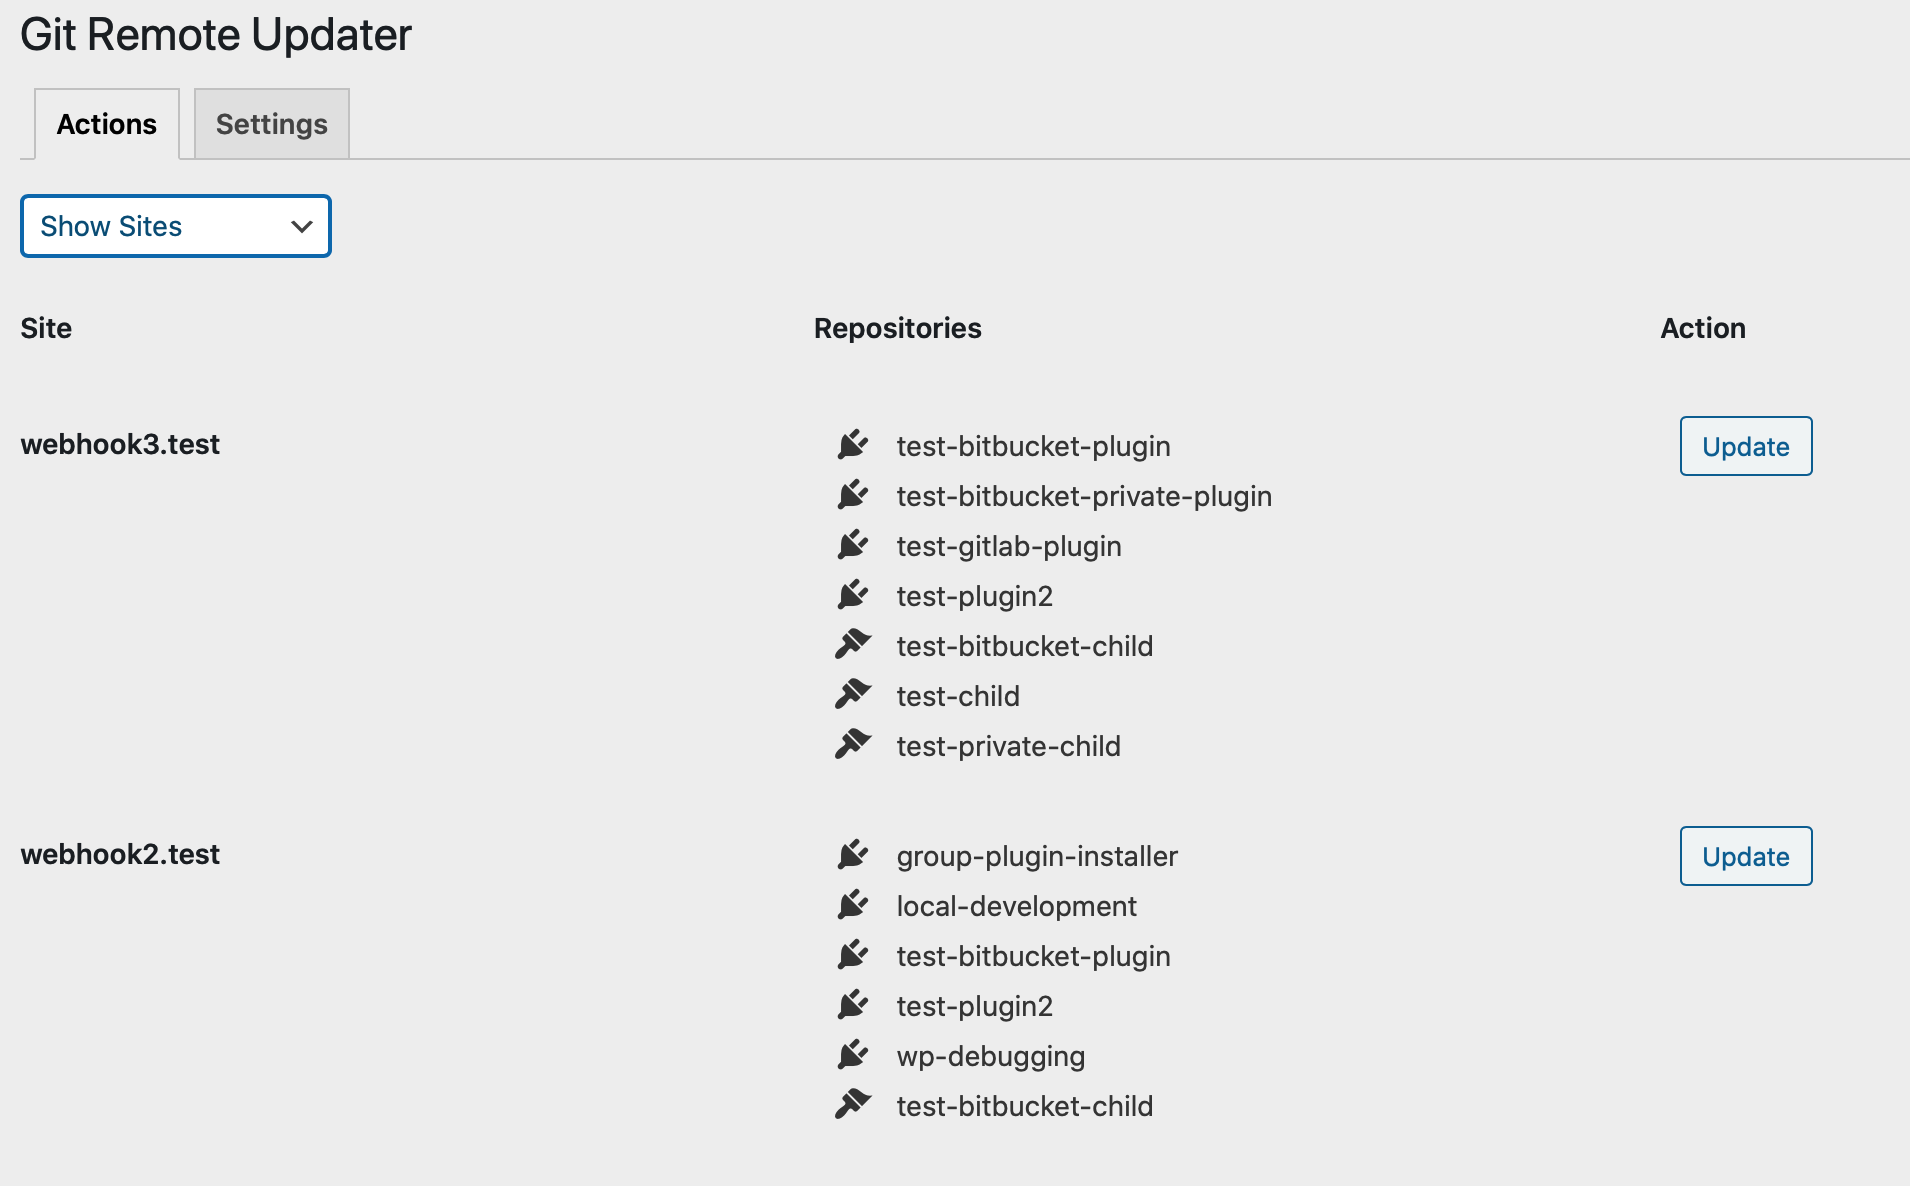
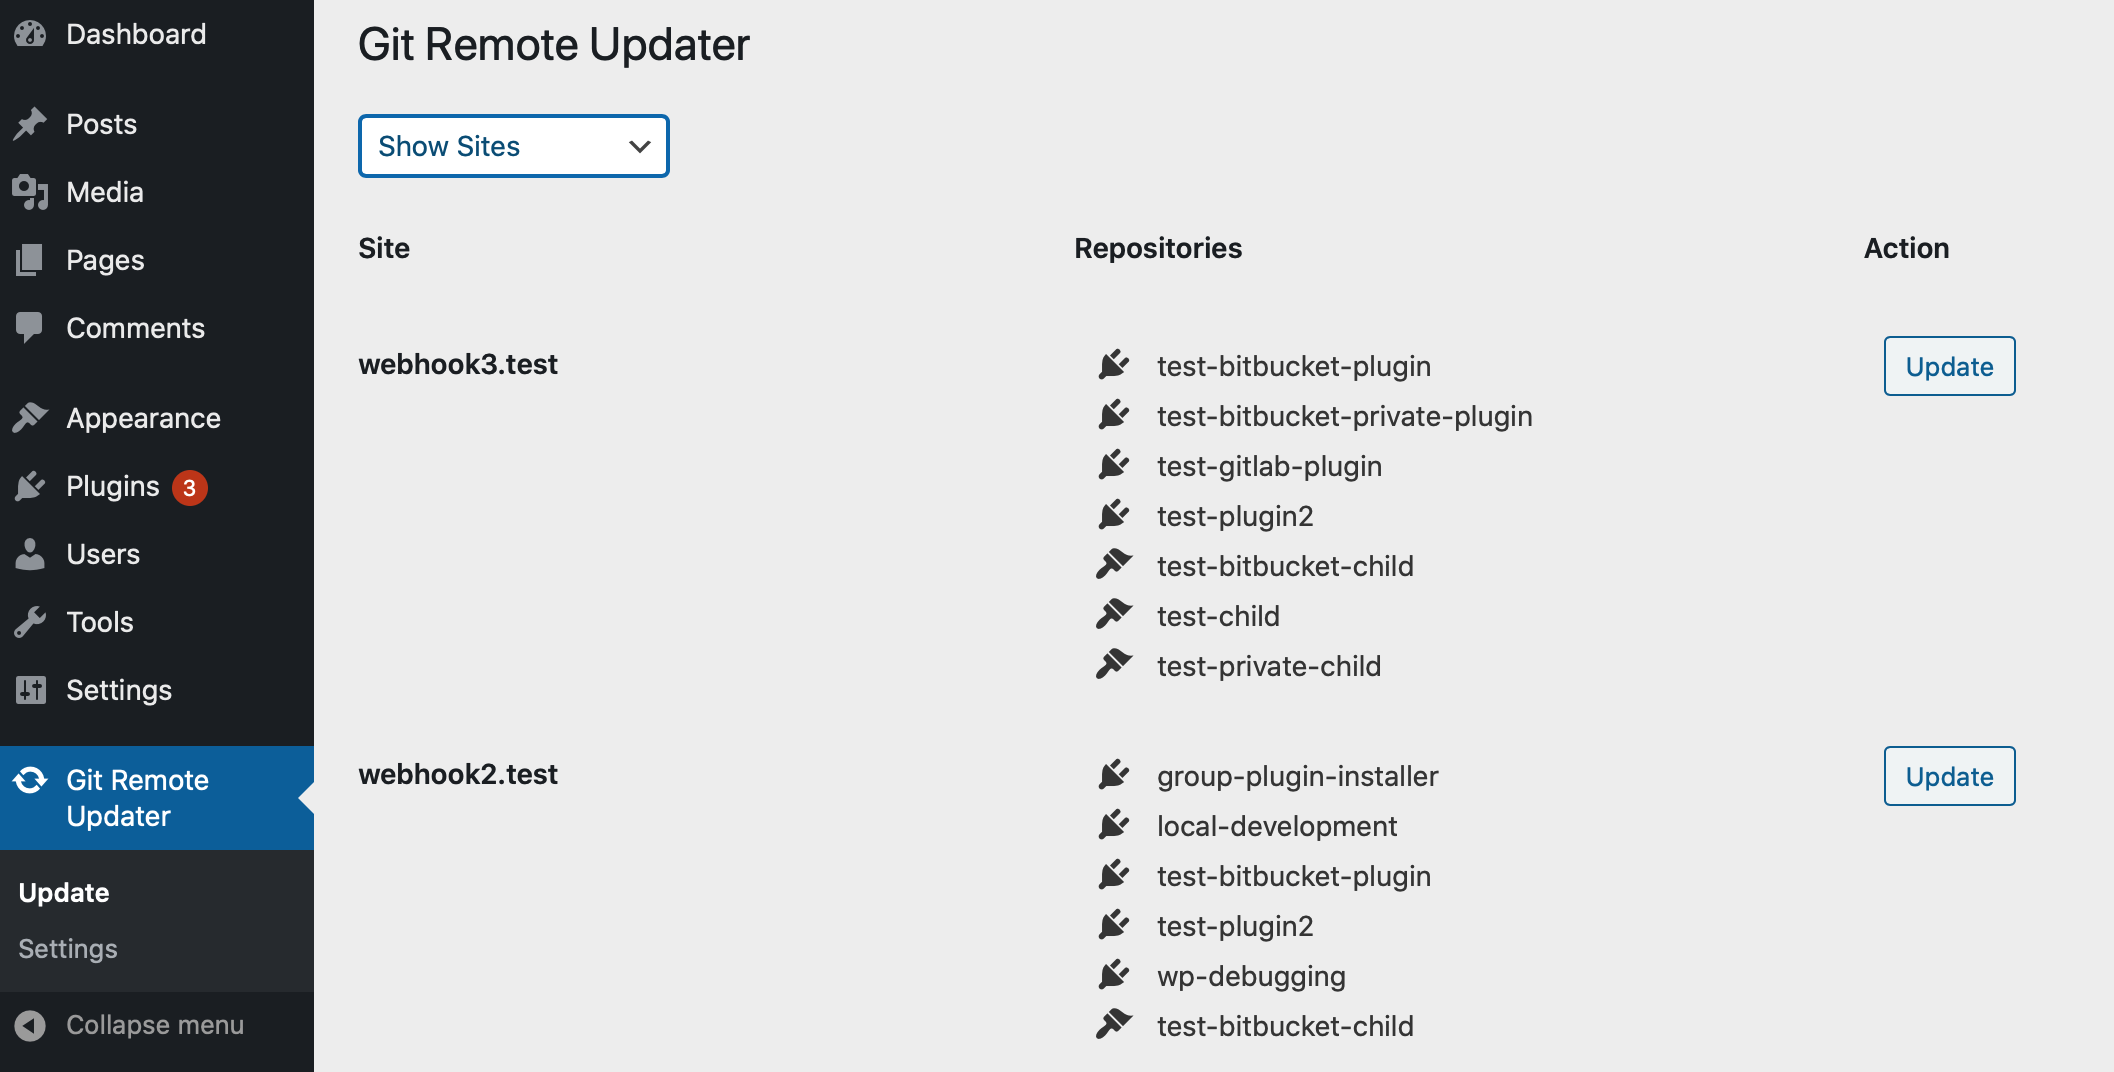
Move to top level menu
Fixes https://github.com/afragen/git-remote-updater/issues/3

diff --git a/src/Git_Remote_Updater/Settings.php b/src/Git_Remote_Updater/Settings.php
@@ -45,50 +45,36 @@ class Settings {
 			return;
 		}
 
-		$parent     = is_multisite() ? 'settings.php' : 'tools.php';
 		$capability = is_multisite() ? 'manage_network' : 'manage_options';
 
-		add_submenu_page(
-			$parent,
+		add_menu_page(
 			esc_html__( 'Git Remote Updater', 'git-remote-updater' ),
 			esc_html__( 'Git Remote Updater', 'git-remote-updater' ),
 			$capability,
 			'git-remote-updater',
-			[ $this, 'create_admin_page' ]
+			[ $this, 'create_admin_page' ],
+			'dashicons-update',
+			null
 		);
-	}
 
-	/**
-	 * Return settings tabs.
-	 *
-	 * @return array
-	 */
-	private function get_settings_tabs() {
-		$tabs = [
-			'git_remote_updater_actions'  => esc_html__( 'Actions', 'git-remote-updater' ),
-			'git_remote_updater_settings' => esc_html__( 'Settings', 'git-remote-updater' ),
-		];
+		add_submenu_page(
+			'git-remote-updater',
+			esc_html__( 'Update', 'git-remote-updater' ),
+			esc_html__( 'Update', 'git-remote-updater' ),
+			$capability,
+			'git-remote-updater',
+			[ $this, 'create_admin_page' ],
+		);
 
-		return $tabs;
-	}
+		add_submenu_page(
+			'git-remote-updater',
+			esc_html__( 'Settings', 'git-remote-updater' ),
+			esc_html__( 'Settings', 'git-remote-updater' ),
+			$capability,
+			'git-remote-updater-settings',
+			[ $this, 'create_admin_page' ],
+		);
 
-	/**
-	 * Renders setting tabs.
-	 *
-	 * Walks through the object's tabs array and prints them one by one.
-	 * Provides the heading for the settings page.
-	 *
-	 * @access private
-	 */
-	private function settings_tabs() {
-		$tabs        = $this->get_settings_tabs();
-		$current_tab = isset( $_GET['tab'] ) ? esc_attr( $_GET['tab'] ) : 'git_remote_updater_actions';
-		echo '<nav class="nav-tab-wrapper" aria-label="Secondary menu">';
-		foreach ( $tabs as $key => $name ) {
-			$active = ( $current_tab === $key ) ? 'nav-tab-active' : '';
-			echo '<a class="nav-tab ' . $active . '" href="?page=git-remote-updater&tab=' . $key . '">' . $name . '</a>';
-		}
-		echo '</nav>';
 	}
 
 	/**
@@ -96,23 +82,21 @@ class Settings {
 	 */
 	public function create_admin_page() {
 		$action = is_multisite() ? 'edit.php?action=git-remote-updater' : 'options.php';
-		$tab    = isset( $_GET['tab'] ) ? esc_attr( $_GET['tab'] ) : 'git_remote_updater_actions';
+		$page   = isset( $_GET['page'] ) ? esc_attr( ( $_GET['page'] ) ) : 'git-remote-updater';
 
 		// Kludge for "redirect" after WP_List_Table bulk actions.
 		if ( isset( $_REQUEST['_wp_http_referer'], $_REQUEST['_wpnonce_list'] ) ) {
-			$tab = 'git_remote_updater_settings';
+			$page = 'git-remote-updater-settings';
 		}
 
 		echo '<div class="wrap"><h2>';
 		esc_html_e( 'Git Remote Updater', 'git-remote-updater' );
 		echo '</h2>';
 
-		$this->settings_tabs();
-
-		if ( 'git_remote_updater_actions' === $tab ) {
+		if ( 'git-remote-updater' == $page ) {
 			( new Actions() )->display( $action );
 		}
-		if ( 'git_remote_updater_settings' === $tab ) {
+		if ( 'git-remote-updater-settings' === $page ) {
 			( new Site_List_Table() )->render_list_table();
 			$this->register_settings();
 			echo '<form class="settings" method="post" action="' . esc_attr__( $action ) . '">';
@@ -179,15 +163,13 @@ class Settings {
 	 * @return void
 	 */
 	public function redirect() {
-		$redirect_url = is_multisite() ? network_admin_url( 'settings.php' ) : admin_url( 'tools.php' );
+		$redirect_url = is_multisite() ? network_admin_url( 'admin.php' ) : admin_url( 'admin.php' );
 		$query        = isset( $_POST['_wp_http_referer'] ) ? parse_url( $_POST['_wp_http_referer'], PHP_URL_QUERY ) : null;
 		parse_str( $query, $arr );
-		$arr['tab'] = ! empty( $arr['tab'] ) ? $arr['tab'] : 'git_remote_updater_settings';
 
 		$location = add_query_arg(
 			[
 				'page'    => $arr['page'],
-				'tab'     => $arr['tab'],
 				'updated' => true,
 			],
 			$redirect_url

diff --git a/src/Git_Remote_Updater/Site_List_Table.php b/src/Git_Remote_Updater/Site_List_Table.php
@@ -101,8 +101,7 @@ class Site_List_Table extends \WP_List_Table {
 	 * @return string Text to be placed inside the column <td> (site title only)
 	 **************************************************************************/
 	public function column_site( $item ) {
-		$location = add_query_arg( 'page', 'git-remote-updater', '' );
-		$location = add_query_arg( 'tab', 'git_remote_updater_settings', $location );
+		$location = add_query_arg( 'page', $_REQUEST['page'], '' );
 
 		// Build row actions.
 		$actions = [
@@ -221,6 +220,7 @@ class Site_List_Table extends \WP_List_Table {
 		// Detect when a bulk action is being triggered...
 		if ( 'delete' === $this->current_action() ) {
 			$this->check_process_action_nonce();
+			// phpcs:ignore WordPress.Security.NonceVerification
 			$sites = isset( $_REQUEST['site'] ) ? $_REQUEST['site'] : null;
 			$sites = is_array( $sites ) ? $sites : (array) $sites;
 			foreach ( $sites as $site ) {
@@ -401,19 +401,20 @@ class Site_List_Table extends \WP_List_Table {
 	public function render_list_table() {
 
 		// Fetch, prepare, sort, and filter our data...
-		$this->prepare_items(); ?>
-		<div class="wrap">
-			<h2>Site List Table</h2>
+		$this->prepare_items();
+		echo '<div class="wrap">';
+		echo '<h2>' . esc_html__( 'Settings', 'git-remote-updater' ) . '</h2>';
 
-			<!-- Forms are NOT created automatically, so you need to wrap the table in one to use features like bulk actions -->
-			<form id="sites-list" method="get">
-			<?php wp_nonce_field( 'process-items', '_wpnonce_list' ); ?>
-				<!-- For plugins, we also need to ensure that the form posts back to our current page -->
-				<input type="hidden" name="page" value="<?php echo $_REQUEST['page']; ?>" />
-				<!-- Now we can render the completed list table -->
-				<?php $this->display(); ?>
-			</form>
-		</div>
-		<?php
+		// Forms are NOT created automatically, so you need to wrap the table in one to use features like bulk actions.
+		echo '<form id="sites-list" method="get">';
+		wp_nonce_field( 'process-items', '_wpnonce_list' );
+
+		// For plugins, we also need to ensure that the form posts back to our current page.
+		echo '<input type="hidden" name="page" value="' . $_REQUEST['page'] . '" />';
+
+		// Now we can render the completed list table.
+		$this->display();
+		echo '</form>';
+		echo '</div>';
 	}
 }

diff --git a/git-remote-updater.php b/git-remote-updater.php
@@ -14,7 +14,7 @@
  * Description:       Allows you to easily update GitHub Updater repositories in bulk via REST API endpoint updating.
  * Author:            Andy Fragen
  * Author URI:        https://github.com/afragen
- * Version:           0.4.2
+ * Version:           0.4.3
  * License:           MIT
  * Network:           true
  * Domain Path:       /languages

diff --git a/CHANGES.md b/CHANGES.md
@@ -13,3 +13,4 @@
 * added filter and function to remove slugs from appearing for updates
 * added a Settings tab to add site data, removed JSON storage directory
 * added nonce checks for WP_List_Table
+* move Git Remote Updater a top level menu
